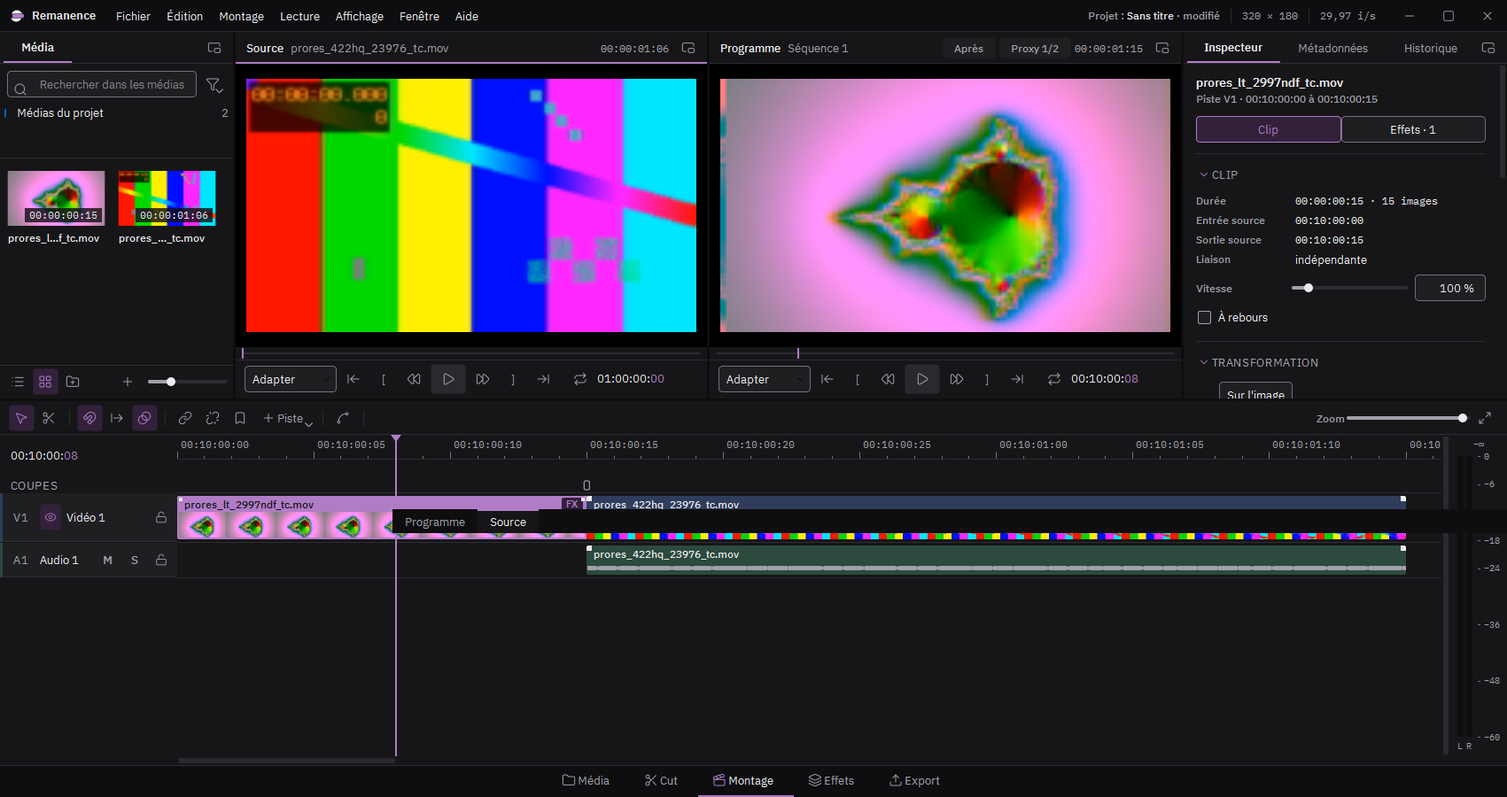
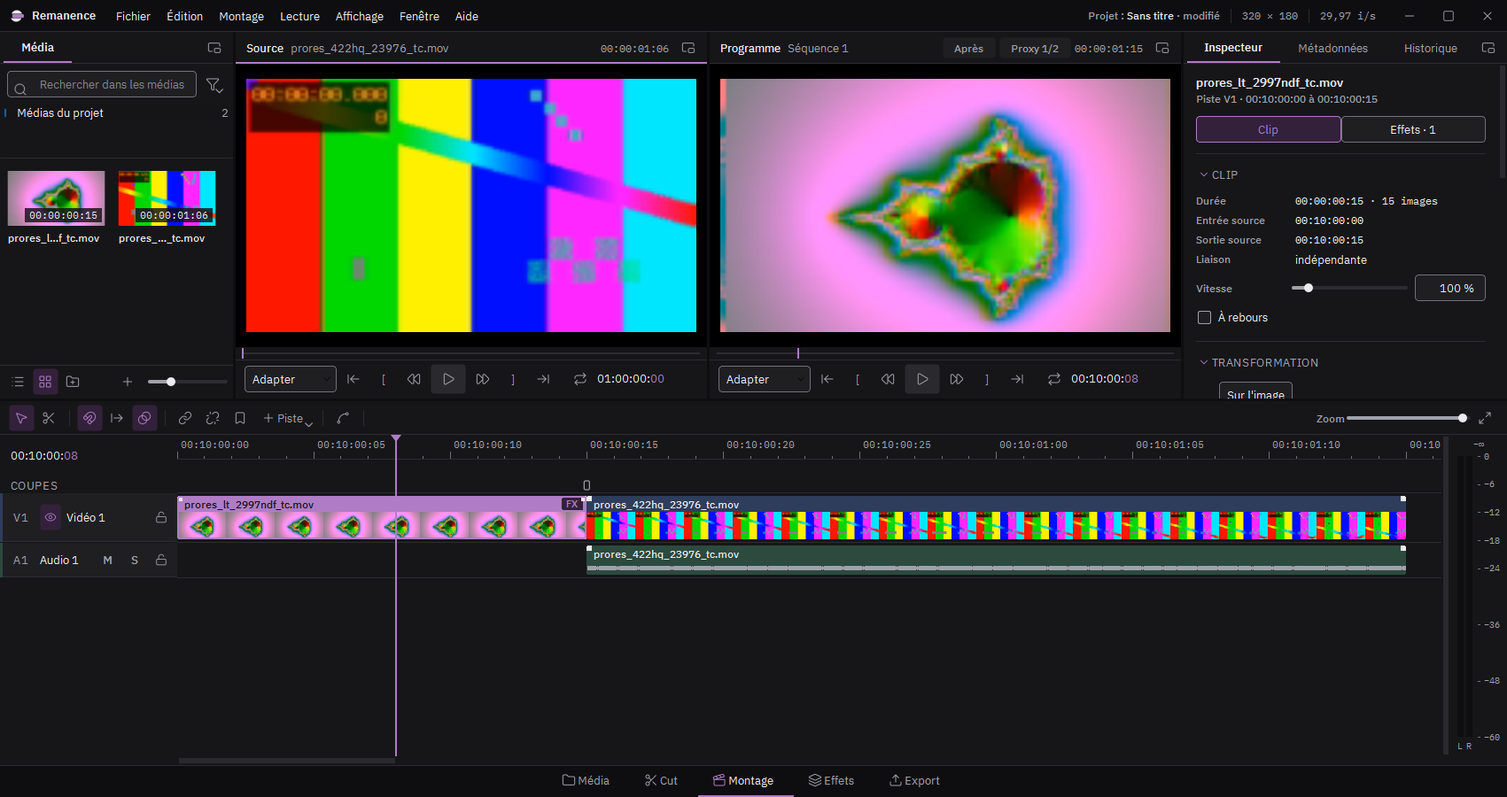
Retour progressif au net à la fin d'une transition datamosh
Réglage Fondu de la transition : la bavure s'efface peu à peu sur ses
dernières images. Hachures qui s'éclaircissent sur la timeline.
Test de version qui attendait 1.0.0 corrigé.

Changed region(s): [[0.2493, 0.6222, 0.9347, 0.6844]]

diff --git a/remanence/ressources/guide/index.html b/remanence/ressources/guide/index.html
@@ -206,7 +206,7 @@ td { padding: 6px 16px 6px 0; border-bottom: 1px solid var(--ligne); vertical-al
 <li>Dans la bande <strong>Coupes</strong>, au-dessus des pistes, cliquez le petit rectangle juste au-dessus du raccord. Il devient mauve.</li>
 <li>Attendez que « Calcul… » disparaisse du clip, puis lisez le passage.</li>
 </ol>
-<p>La zone hachurée au début du second clip montre la durée de la bavure. Tirez son bord droit pour l'allonger. Dans l'inspecteur, la section Transition datamosh règle aussi la taille des blocs.</p>
+<p>La zone hachurée au début du second clip montre la durée de la bavure. Tirez son bord droit pour l'allonger. Dans l'inspecteur, la section Transition datamosh règle aussi la taille des blocs et le <strong>Fondu</strong>, en images : sur la fin de la transition, la bavure s'efface peu à peu au lieu de laisser place à l'image nette d'un coup (0 : retour au net d'un coup). Sur la timeline, les hachures s'éclaircissent sur cette partie.</p>
 <p>Les autres rectangles de la bande Coupes marquent les changements de plan à l'intérieur d'une vidéo. Un clic fait baver le plan d'avant dans le suivant, au même endroit.</p></section>
 <section><h2 id="aide-06-codec">Effets codec et scripts FFglitch</h2>
 <figure><img alt="Script FFglitch dans l'inspecteur" src="../aide/codec.png"></figure>

diff --git a/remanence/moteurs/codec/prerendu.py b/remanence/moteurs/codec/prerendu.py
@@ -133,7 +133,9 @@ def cle_source(projet: Projet, seq: Sequence, clip: Clip) -> str | None:
     donnees = {"source": _signature(projet, clip), "cadence": seq.cadence,
                "cles": clip.cles_supprimees, "ffglitch": ffglitch.disponible(),
                "transition": None if a is None else [clip.transition.duree, clip.transition.blocs,
-                                                     _signature(projet, a)]}
+                                                     _signature(projet, a)]
+               # Le fondu n'entre dans l'empreinte que s'il existe : les caches d'avant valent.
+               + ([_fondu(clip)] if _fondu(clip) else [])}
     return _empreinte(donnees)
 
 
@@ -232,9 +234,40 @@ def _calculer_source(projet: Projet, seq: Sequence, clip: Clip, progression=None
     decodees = bavure.decoder(paquets, total)
     for _ in range(queue):
         next(decodees)
+    if a is not None and _fondu(clip):
+        decodees = _retour_progressif(decodees, projet, clip, largeur, hauteur)
     _ecrire(final, decodees, clip.duree, largeur, hauteur, cadence, v.couleur, progression,
             annule, 0.5)
     return final
+
+
+def _fondu(clip: Clip) -> int:
+    """Images du retour progressif au net, bornées à la durée de la transition."""
+    t = clip.transition
+    return max(0, min(t.fondu, t.duree)) if t is not None else 0
+
+
+def _retour_progressif(moshees, projet: Projet, clip: Clip, largeur: int, hauteur: int):
+    """Fin de la transition datamosh : sur ses `fondu` dernières images, l'image qui bave se
+    mêle à l'image du clip, de plus en plus nette, comme un fondu enchaîné ((k + 1) / (n + 1)).
+    La transition garde sa durée ; l'image clé qui la termine reste à sa place."""
+    duree, n = clip.transition.duree, _fondu(clip)
+    debut = duree - n
+    nettes = _images(projet, clip, debut, n)
+
+    def plans(image):
+        return image.reformat(width=largeur, height=hauteur,
+                              format="yuv420p").to_ndarray().astype(np.float32)
+    try:
+        for t, image in enumerate(moshees):
+            if debut <= t < duree:
+                poids = (t - debut + 1) / (n + 1)
+                bave, nette = plans(image), plans(next(nettes))
+                melange = np.rint(bave + (nette - bave) * poids).astype(np.uint8)
+                image = av.VideoFrame.from_ndarray(melange, format="yuv420p")
+            yield image
+    finally:
+        nettes.close()
 
 
 def _ecrire(final: Path, images, n: int, largeur: int, hauteur: int, cadence: Fraction,

diff --git a/tests/test_effets.py b/tests/test_effets.py
@@ -417,6 +417,40 @@ def test_transition_datamosh(medias, tmp_path, moteur):
     assert infos.video.tc_debut == seq.tc_debut + b.debut, "même timecode que dans le montage"
 
 
+def test_retour_progressif_du_datamosh(medias, moteur):
+    """Fondu à la fin de la transition (demande de Lewis, 21 novembre 2026) : sur ses
+    dernières images, la bavure se mêle peu à peu à l'image nette, au lieu d'y revenir d'un
+    coup ; avant, la même bavure ; après, la source intacte."""
+    from remanence.moteurs.codec import prerendu
+    projet, seq, a, b = _deux_plans(medias)
+    propre = [_image(projet, b.debut + t) for t in range(14)]
+    edition.basculer_transition(seq, b.id, 12)
+    assert b.transition.fondu == 6, "fondu par défaut d'une nouvelle transition"
+
+    def images(fondu):
+        b.transition.fondu = fondu
+        prerendu.calculer_source(projet, seq, b)
+        return [_image(projet, b.debut + t) for t in range(14)]
+    franc, doux = images(0), images(6)
+    ecart = lambda x, y: float(np.abs(x[..., :3] - y[..., :3]).mean())
+    assert all(np.array_equal(doux[t], franc[t]) for t in range(6)), \
+        "avant le fondu, la même bavure"
+    restes = [ecart(doux[t], propre[t]) for t in range(6, 12)]
+    francs = [ecart(franc[t], propre[t]) for t in range(6, 12)]
+    assert all(r < f for r, f in zip(restes, francs)), "le fondu rapproche de l'image nette"
+    assert restes[-1] < restes[0] and restes[-1] < 0.35 * francs[-1], "de plus en plus net"
+    assert all(np.array_equal(doux[t], propre[t]) for t in range(12, 14)), \
+        "après la transition, la source intacte"
+    # Les projets d'avant (sans fondu) gardent leur retour au net d'un coup.
+    donnees = projet.vers_dict()
+    for s in donnees["sequences"]:
+        for p in s["pistes"]:
+            for c in p["clips"]:
+                if c.get("transition"):
+                    c["transition"].pop("fondu")
+    assert Projet.depuis_dict(donnees).sequence.trouver(b.id)[1].transition.fondu == 0
+
+
 def test_transition_et_coupes_au_montage(medias):
     projet, seq, a, b = _deux_plans(medias)
     with pytest.raises(edition.EditionImpossible):

diff --git a/remanence/ui/timeline.py b/remanence/ui/timeline.py
@@ -367,10 +367,21 @@ class VueTimeline(QWidget):
         self._dessiner_cles(p, clip, r)
         if clip.transition is not None and edition.precedent(piste, clip) is not None:
             largeur = min(clip.transition.duree, clip.duree) * self.px_par_image
+            fondu = min(clip.transition.fondu, clip.transition.duree, clip.duree)
+            plein = largeur - fondu * self.px_par_image
             zone = QRectF(r.left(), r.top() + BANDEAU, largeur, r.height() - BANDEAU)
             # Vignettes assombries sous les hachures : sinon elles s'y perdaient.
-            p.fillRect(zone, c.c("bg-app", 0.6))
-            p.fillRect(zone, QBrush(c.c("accent"), Qt.BDiagPattern))
+            pleine = QRectF(zone.left(), zone.top(), plein, zone.height())
+            p.fillRect(pleine, c.c("bg-app", 0.6))
+            p.fillRect(pleine, QBrush(c.c("accent"), Qt.BDiagPattern))
+            # Retour progressif au net : les hachures s'effacent par paliers.
+            paliers = max(1, min(8, round((largeur - plein) / 4)))
+            pas = (largeur - plein) / paliers
+            for k in range(paliers):
+                force = 1 - (k + 1) / (paliers + 1)
+                bande = QRectF(zone.left() + plein + k * pas, zone.top(), pas, zone.height())
+                p.fillRect(bande, c.c("bg-app", 0.6 * force))
+                p.fillRect(bande, QBrush(c.c("accent", force), Qt.BDiagPattern))
             p.fillRect(QRectF(zone.right() - 2, zone.top(), 2, zone.height()), c.c("accent"))
         # Bandeau du nom, sur la couleur du clip : lisible même par-dessus les vignettes. Clip
         # choisi : bandeau mauve plein, visible de loin (le contour seul se perdait).

diff --git a/remanence/ui/inspecteur.py b/remanence/ui/inspecteur.py
@@ -517,10 +517,12 @@ class Inspecteur(PanneauFiche):
             retirer = bouton_icone("x", "Retirer la transition", taille=14)
             retirer.clicked.connect(lambda: self.reglage.emit(c.id, "transition_retirer", None))
             section.ajouter_outil(retirer)
-            for champ, nom, mini, maxi, unite in (("duree", "Durée", 1, c.duree, "images"),
-                                                  ("blocs", "Blocs", 1, 31, "")):
+            for champ, nom, mini, maxi, unite, defaut in (
+                    ("duree", "Durée", 1, c.duree, "images", 24),
+                    ("fondu", "Fondu", 0, c.transition.duree, "images", 8),
+                    ("blocs", "Blocs", 1, 31, "", 4)):
                 ligne = LigneParametre(nom, mini, maxi, getattr(c.transition, champ), unite,
-                                       24 if champ == "duree" else 4, 0)
+                                       defaut, 0)
                 ligne.valeur_finale.connect(lambda v, champ=champ: self.reglage.emit(
                     c.id, "transition_" + champ, v))
                 self._cible.addWidget(ligne)

diff --git a/remanence/projet/edition.py b/remanence/projet/edition.py
@@ -807,6 +807,9 @@ def precedent(piste: Piste, clip: Clip) -> Clip | None:
                  and o.est_media), None)
 
 
+FONDU_DATAMOSH = 8  # images du retour progressif au net d'une nouvelle transition
+
+
 def basculer_transition(seq: Sequence, clip_id: str, duree: int | None = None):
     """Pose ou retire la transition datamosh à l'entrée du clip."""
     piste, c = seq.trouver(clip_id)
@@ -819,7 +822,9 @@ def basculer_transition(seq: Sequence, clip_id: str, duree: int | None = None):
         return
     if precedent(piste, c) is None:
         raise EditionImpossible("Une transition datamosh se pose entre deux clips qui se suivent.")
-    c.transition = Transition("datamosh", max(1, min(duree or 24, c.duree)))
+    d = max(1, min(duree or 24, c.duree))
+    # Retour au net progressif par défaut (demande de Lewis, 21 novembre 2026).
+    c.transition = Transition("datamosh", d, fondu=min(FONDU_DATAMOSH, d // 2))
 
 
 def basculer_cle(seq: Sequence, clip_id: str, t: int):

diff --git a/tests/test_licences.py b/tests/test_licences.py
@@ -52,11 +52,13 @@ def test_version_et_notes():
     from remanence.ui.apropos import APropos
     QApplication.instance() or QApplication([])
     from remanence.ui.charte import RACINE
-    assert [int(x) for x in __version__.split(".")] == [1, 0, 0]
+    nombres = [int(x) for x in __version__.split(".")]
+    assert len(nombres) == 3 and nombres >= [1, 0, 0]
     notes = (RACINE / "NOTES_DE_VERSION.md").read_text(encoding="utf-8")
     assert f"## Remanence {__version__}" in notes and "—" not in notes
     fenetre = APropos()
-    assert [fenetre.onglets.tabText(i) for i in range(fenetre.onglets.count())] ==         ["Notes de version", "Licences"]
+    assert [fenetre.onglets.tabText(i) for i in range(fenetre.onglets.count())] == \
+        ["Notes de version", "Licences"]
     assert "Limites connues" in fenetre.onglets.widget(0).toPlainText()
 
 

diff --git a/remanence/projet/modele.py b/remanence/projet/modele.py
@@ -133,10 +133,13 @@ MODES_FUSION = {"normal": "Normal", "addition": "Addition", "ecran": "Écran",
 class Transition:
     """Transition à l'entrée d'un clip, depuis le clip qui le précède sur sa piste. Datamosh :
     l'image clé du raccord est supprimée, le clip précédent bave avec le mouvement de celui-ci
-    pendant `duree` images, puis une image clé le rend net."""
+    pendant `duree` images, puis une image clé le rend net. `fondu` : sur ses dernières images,
+    l'image qui bave se mêle peu à peu à l'image nette (0 : retour au net d'un coup, comme
+    dans les projets d'avant)."""
     type: str = "datamosh"
     duree: int = 24
     blocs: int = 4
+    fondu: int = 0
 
 
 # Un clip d'effet n'a pas de média : il transforme tout ce qui est sous lui. Son entrée est

diff --git a/CLAUDE.md b/CLAUDE.md
@@ -42,6 +42,7 @@ Logiciel Windows de montage vidéo orienté datamosh et glitch art, dans l'espri
 - Étape 11 (espace Cut, montage rapide) : plan en quatre lots accepté par Lewis le 5 novembre 2026 avec les choix par défaut (1 espace Cut entre Média et Montage, raccourcis renumérotés Maj+1 à Maj+5 dans l'ordre de la barre, pas d'inspecteur ; 2 bande source (tous les médias du chutier enchaînés dans le moniteur) et quatre poses : insertion intelligente au raccord le plus proche, ajouter à la fin, remplacer le plan sous la tête (la suite se décale), placer au-dessus ; 3 double timeline : bande de toute la séquence au-dessus, timeline détaillée autour de la tête, repère du raccord visé ; 4 découper un média aux changements de plan (`Media.coupes`), revue rapide (plus vite sur les longs plans), rognage du raccord visé au clavier ; validation : dix plans montés sans quitter Cut, timelines synchronisées, insertion intelligente toujours sur un raccord). Lot 1 fait le 5 novembre 2026, 228 tests au vert : `PANNEAUX_ESPACE["cut"]` = médias, programme (`visionneuse`), timeline ; `_disposition` (médias 420 px, programme le reste ; second écran : programme seul) ; moniteur ajusté en 16:9 comme Montage et Effets ; `barres.ESPACES` (icône `scissors`) ; Maj+1 à 5 avec Maj+&, é, ", ', ( (AZERTY) ; aide et guide (chapitre L'écran, capture `espace-cut.png`) mis à jour. Lot 2 fait le 5 novembre 2026, 230 tests au vert : moniteur unique = docks source et programme en onglets (`tabifyDockWidget` ; `activer_moniteur` lève l'onglet dans Cut, Q bascule) ; rangée `_barre_poses` sous le moniteur source (`Moniteur.ajouter_ligne`), visible dans Cut seulement : « Bande source » (`basculer_bande` : mini-projet aux réglages de la séquence où les vidéos de `PanneauMedias.medias_affiches()` se suivent ; `_bande` = [(média, début, longueur)] ; le média sous la tête devient `media_source` (`_position_source`), points d'entrée et de sortie gardés par média, en images du média (`_debut_dans_bande`), `_duree` et `_points` de la source en images de la bande ; charger un média y amène la tête ; quitter Cut arrête la bande) et quatre poses (`Fenetre.poser_cut`, `POSES`, aussi au menu Montage) avec la partie choisie de la source (le plan entier sans points) : Insérer = insertion intelligente au raccord le plus proche (`edition.raccord_proche`, Maj+F9), À la fin (Maj+F12), Remplacer le plan sous la tête de V1 (`edition.remplacer_plan` : le plan et ses liés retirés, la suite de toutes les pistes, marqueurs compris, avance ou recule de la différence, `_refermer` ; Maj+F10), Au-dessus (`edition.placer_au_dessus` : première piste vidéo libre au-dessus de V1, sinon une nouvelle en haut, son sur une piste audio libre, rien d'écrasé ; F12) ; raccourcis de Resolve. `ajouter_media(..., piste_audio=)`. Feuille de style : `QPushButton:checked` (fond `accent-soft`, texte et bord `accent`) : les boutons enclenchés ordinaires ne se voyaient pas (Bande source, Sur l'image). Capture : `UI/captures/cut_lot2.png`. Lot 3 fait le 5 novembre 2026, 231 tests au vert : `Timeline.mode_cut(actif)` (appelé par `_appliquer_espace`) : `VueEnsemble` (timeline.py, 56 px, au-dessus des pistes et alignée sur elles) : une rangée fine par piste non vide (couleurs des clips, clips choisis en `accent`), la partie montrée par la timeline détaillée en `surface-hover`, le raccord visé en pointillés `accent-2`, la tête en `playhead` ; clic et glisser amènent la tête (`fenetre.aller_a`) ; repeinte avec la timeline détaillée (fin de `VueTimeline.paintEvent`) et à chaque défilement. Timeline détaillée : `centrer_tete` (la tête reste au centre, la timeline défile sous elle), `VueTimeline.montrer_raccord` (pointillés `accent-2` sur le raccord de `edition.raccord_proche`, celui que vise Insérer). Hors de Cut, tout revient comme avant. Capture : `UI/captures/cut_lot3.png`. Lot 4 fait le 5 novembre 2026, 234 tests au vert, Remanence.exe et installateur reconstruits (diagnostic entièrement ok) : Découper aux changements de plan (Montage et menu du clip, Ctrl+K ; `edition.decouper_aux_plans` avec `prerendu.coupes_du_clip`, de la dernière coupe à la première, son compris ; refusé tant que l'analyse des coupes du média n'est pas finie) ; dans la bande source sans points, une pose prend le plan sous la tête entre deux changements de plan (`edition.plan_autour`) ; Revue rapide (bouton de la rangée Cut, `revue_rapide` : le moniteur actif lit à `REVUE_SECONDES` = 2,5 s par plan, de ×1 à ×8 par demi-pas, minuterie de 80 ms qui ajuste la vitesse à chaque plan (`_plan_lu` : plan de la bande, ou entre deux raccords au programme) et relâche le bouton quand la lecture s'arrête ; à la fin de la séquence, la lecture s'arrête aussitôt) ; rognage du raccord visé (Alt+gauche et droite, Alt+Maj : dix images ; `edition.raccord_a_rogner` : le clip de V1 qui finit au raccord le plus proche, avec un voisin collé, puis `edition.rouler` ; la tête suit le raccord). Fiche d'aide `10-cut.md` (capture `cut.png` par `captures_aide.py`), guide refait (16 chapitres), notes de version. Test de validation : `test_validation_etape_11` (dix poses par les raccourcis sans quitter Cut, dix plans entiers et jointifs, tête commune aux deux timelines). Validée par Lewis le 5 novembre 2026.
 - Étape 12 (effets audio glitch) : plan en quatre lots accepté par Lewis le 5 novembre 2026 avec les choix par défaut (1 moteur : effets sur les clips et pistes audio, lecture et export, images clés, courbes, modulateurs, calcul qui ne dépend que de la position (même son par blocs et d'un export à l'autre) ; 2 six effets : Bégaiement, Bitcrusher, Arrêt de bande, Inversion par fragments, Gel, Databending audio ; 3 « le son bave avec l'image » (case de la transition datamosh : le son se gèle et se répète pendant la transition et aux images clés supprimées), famille Son dans la bibliothèque avec préréglages ; 4 validation : effet à zéro = son recopié au bit près, deux exports identiques, lecture fluide avec trois effets ; effets audio sur le son seulement, effets vidéo sur l'image seulement ; ni écho ni réverbération). Lot 1 fait le 5 novembre 2026, 239 tests au vert : `DescriptionEffet.moteur = "audio"` et `son(lire, valeurs, graine, fréquence)` qui rend un lecteur ; `rendu/son.py` : lecteur = `lire(début, n)` -> (n, 2) float32 en positions du porteur (clip, ou séquence pour un effet de piste), `borne` (muet hors du clip), `chaine` (effets actifs de chaque image, `composition.actifs`, le bloc coupé aux limites des images : l'image de l'échantillon p est floor(p / par_image), chacune avec ses réglages, d'où un résultat indépendant de la taille des blocs), opacité = mélange avec le son reçu. `Compositeur.audio` : `_lecteur_clip` (source bornée, effets audio du clip, puis niveau, fondus, enveloppe) ; une piste qui a des effets audio les applique au mélange de ses clips (`bus`). Export : pas de recopie du son si le clip ou sa piste a des effets. `FAMILLES_SON` = ["Son"] ; `remplir_menu_effets(..., son=)` : effets audio pour les clips et pistes audio, vidéo sinon (préréglages personnels filtrés de même) ; `Fenetre.ajouter_effet` refuse un effet sur le mauvais genre (« Effet audio sur le son, effet vidéo sur l'image ») ; inspecteur : effets des clips et pistes audio, « Mélange » au lieu d'Opacité, ni fusion ni masques ; menu des en-têtes de pistes audio. Premier effet : Bitcrusher (`effets/bitcrusher.py` : bits 1 à 16, réduction 1 à 64 ×, échantillon tenu aligné sur les positions absolues ; famille Son, sans préréglage jusqu'au lot 3). Tests génériques des effets vidéo : sans les effets audio. `tests/test_son.py`. Lot 2 fait le 5 novembre 2026, 246 tests au vert : outils de `rendu/son.py` (`hasard(graine, clés…)` par `numpy.random.default_rng`, `lire_positions` : positions entières ou non, interpolation linéaire, lues en une fois ; `echantillons(ms)`) ; effets (fenêtres comptées depuis le début du porteur, tirées par fenêtre : même son quel que soit le découpage) : Bégaiement (`begaiement.py` : fenêtres de fragment × répétitions, le premier fragment rejoué ; fragment, répétitions, probabilité), Inversion par fragments (`inversion_fragments.py`), Gel (`gel.py` : à la fin de chaque période tirée, le grain qui précède rejoué en boucle pendant la durée, fondu d'un huitième de grain sur ses bords), Arrêt de bande (`arret_bande.py` : vitesse (1 − u)^courbe, position = intégrale, la hauteur descend, extinction au dernier vingtième ; repart net à la période suivante), Databending audio (`databending_audio.py` : tranches d'une seconde depuis le début du porteur, encodées en MP2 par PyAV (s16, trames de 1152, débits permis de 32 à 192 kb/s), octets des paquets abîmés hors des 4 octets d'en-tête (graine, tranche), décodés (trame illisible : silence), retard du codec de 481 échantillons retiré ; cache LRU de 64 tranches, clé = SHA-1 du son reçu + réglages : la lecture redemande souvent la même tranche). Les 5 effets : 3 s calculées en 11 à 54 ms. Écoute : `build/demo_son` (un WAV par effet sur un motif rythmé, non suivi par git). Lot 3 fait le 5 novembre 2026, 248 tests au vert : « Le son bave » (`Clip.son_bave`, clé facultative, sur le clip vidéo ; case dans la section Transition datamosh, ou dans une section « Datamosh » s'il n'a que des images clés supprimées, pour un clip lié à du son) : `Compositeur._plages_bave` (les `prerendu.plages_modifiees` des clips vidéo liés aux clips de la piste, en échantillons de la séquence) puis `son.bave` sur le mélange de la piste, avant ses effets : pendant chaque plage (deux secondes au plus), le grain de 60 ms qui la précède (le plan d'avant) tourne en boucle (fondu d'un huitième de grain) et s'efface pendant que le son de la plage monte ; export : pas de recopie du son lié à un clip qui bave. Trois préréglages par effet audio (Disque rayé, Sampler nerveux, Hoquet ; Console 8 bits, Téléphone cassé, Poussière ; Cassette freinée, Platine débranchée, Ralenti nerveux ; Envers aléatoire, Bribes à rebours, Message caché ; Note tenue, Glace fine, Bourdon ; Radio abîmée, Fichier corrompu, Crépitements). Bibliothèque : filtre « Son » (`FAMILLES_SON`), vignette d'un préréglage audio = forme d'onde de `son.son_demo()` passé par ses effets, en `ink` sur `clip-audio` comme un clip audio, tête de lecture `playhead` qui la parcourt au survol (`est_audio`, `_onde`, `_calculer_onde`) ; ni clip d'effet ni effet de séquence pour un préréglage audio. `Fenetre.appliquer_prereglage` et `_prereglage_depose` : un préréglage audio va aux clips audio choisis, et au son lié (`_son_lie`) d'un clip vidéo choisi ou visé ; lâché dans le vide : refusé. Guide : catalogue avec la famille Son (moteur « Son »), vignettes refaites. Lot 4 fait le 5 novembre 2026, 256 tests au vert, Remanence.exe et installateur reconstruits (diagnostic : 35 effets, 11 fiches) : `DescriptionEffet.neutre(valeurs)` (Bitcrusher : 16 bits et réduction 1 ; Bégaiement : probabilité 0 ou une répétition ; Inversion, Gel, Arrêt de bande : probabilité 0 ; le Databending repasse toujours par le codec, neutre seulement à mélange nul), sauté dans `son.chaine` ; `son.intact(effet, seq)` (coupé, mélange nul ou neutre, sans image clé ni modulateur) : l'export recopie le son d'origine si tous les effets audio du clip et de sa piste sont intacts (test : paquets audio identiques à la source, pour les six effets). Le rapport d'export écrit « recopié sans réencodage » (le test du lot 1 comparait à « copie » et ne vérifiait rien : corrigé). Les six effets empilés exportés deux fois : même son. Lecture : trois effets (Bégaiement, Gel, Databending) par blocs de 1024 échantillons coûtaient 124 % du temps réel : le Databending, par tranches d'une seconde, refaisait calculer une seconde des effets d'avant à chaque bloc ; tranches de deux trames MP2 (48 ms) avec une trame d'avance (encodée, non abîmée, retirée : le codec enchaîne sans claquer, écart aux jointures 0,01), cache de 512 tranches : 23 %. Tuiles des préréglages audio : « Effet · son » (`Prereglage.description`). Fiche `11-son.md` « Casser le son » (capture `son.png`, filtre Son de la bibliothèque), notes de version, guide (17 chapitres). Validée par Lewis le 5 novembre 2026 : les étapes 7 à 12 de la suite sont faites.
 - Étape 13 (retours des testeurs de Lewis, 15 novembre 2026 : un monteur est reparti vers Live Mosher, interface de FFglitch de pawelzwronek, faute d'y retrouver ses scripts ; bugs de timeline et de moniteur ; molette ; ergonomie) : plan en cinq lots accepté par Lewis le 15 novembre 2026 (1 scripts de Live Mosher : exemples téléchargés pour les essais seulement, chacun des ~80 scripts vérifié une fois importé, import en un clic, noms et rangement d'origine ; licence des scripts de Daz Disley (dd_GlitchAssist) et de Live Mosher non déclarée : pas livrés sans l'accord de l'auteur ; 2 aperçu en direct par fflive (bouton « Direct », fenêtre en boucle sur le programme, relancée quand un réglage change) ; 3 équivalents réécrits et livrés (Gravity, Slam zoom, Mirror, Swap, RandomDamage…) ; 4 bugs : molette qui change les réglages, timeline qui ne se réduit plus ou disparaît, image dans l'image du moniteur ; 5 inspecteur en onglets Clip et Effets, piste FX des clips d'effet, moniteur seul en plein écran sur l'écran 2). Lot 1 fait le 15 novembre 2026, 261 tests au vert : banc d'essai sur les 109 fichiers du dossier Examples de Live Mosher (dépôt pawelzwronek/LiveMosher, sans licence : téléchargé dans le dossier temporaire de Claude pour les essais, jamais dans le projet) ; avant correction, 79 scripts agissaient une fois importés (dont les 74 de Daz Disley), 12 échouaient sur un module voisin, `mv_average_0.10.js` choisissait son propre fichier de sortie, et un script zmq bloquait ffedit sans fin. `scripts.importer` rend un `BilanImport` (importés, dont en direct, écartés avec leur raison) : dossiers d'origine gardés sous `<données>/scripts_ffglitch/<nom du dossier importé>/…`, modules voisins recopiés dans le script (`regrouper` : `import {…} from "./x"` remplacé par le module sans ses `export`, `import * as n` rangé dans un objet `n`), écartés : sans `glitch_frame` (« module d'aide », ou « autre usage » pour les crochets d'autres outils de FFglitch : `filter` de fflive, `pict_type_func`, `mb_type_func` de ffgac), features hors MPEG-4 (`FEATURES_MPEG4` = info, mv, mv_delta, mb, gmc, relevées par `ffedit -i` : « pour les images »), module voisin introuvable. `direct_seulement` : import d'un module de fflive (rtmidi, zmq) ou événements SDL (clavier, manette) ; un tel script est sans action sur la timeline (`prerendu.en_direct`, exclu de `effets_codec` et de `composition.actifs`, `script_ffglitch.script` lève « Script à lire en direct »), avertissement dans l'inspecteur ; il servira au direct (lot 2). `adapter` : le fichier de sortie reste celui de Remanence même si le `setup` du script en choisit un. Bibliothèque : `scripts_de_la_bibliotheque()` (`Script` : nom, texte, fourni, groupe = dossier d'origine, direct ; deux scripts de même nom : le second suivi de son dossier entre parenthèses) ; tuiles « Script · instant damage », « · direct » (`Prereglage.groupe`, `direct`). Fichier > Importer les scripts de Live Mosher… : `scripts.trouver_live_mosher()` cherche un dossier dont le nom contient « LiveMosher » (deux niveaux sous Téléchargements, Bureau, Documents, le dossier personnel et les dossiers des programmes) et son « Examples » ; sinon le dossier est demandé. Après correction, sur les vrais fichiers : 91 importés, 82 agissent sur la timeline (les 74 de Daz Disley compris), 9 en direct, 16 écartés. `tests/test_scripts_import.py` (faux dossier qui reproduit chaque cas). Le message « FFglitch absent : effet sans action » a pris son espace insécable (test mis à jour). Lot 2 fait le 15 novembre 2026, 262 tests au vert : aperçu en direct (`moteurs/codec/direct.py`) par fflive de FFglitch 0.10.2 (`-s` script, `-loop 0`, `-noborder -alwaysontop`, `-left -top -x -y`, `-an`, titre « Remanence · Direct ») : `accepte` (effets dont `DescriptionEffet.script` existe : Script FFglitch, Vecteurs, Écho et Zoom de mouvement, saccades ; pas le transfert), `script` (Script FFglitch par `scripts.adapter` sans le refus des scripts directs ; sinon le script généré avec les valeurs de chaque image), `flux` (le clip en MPEG-4 par ffgac, images clés aux coupes, mis en cache `direct_<empreinte>.avi` dans le dossier des pré-rendus : source, entrée, durée, vitesse, cadence, blocs), `Direct` (un processus à la fois, `lancer`, `actif`, `erreur`, `arreter`). Interface : bouton « Direct » (cochable) des effets à script d'un clip dans l'inspecteur, si FFglitch est là (`Inspecteur.direct_demande`, `effet_direct`) ; `Fenetre.basculer_direct` prépare fichier et script en tâche de fond sur une copie du projet, puis pose la fenêtre sur l'image du programme (`_rect_direct` : image de la séquence ajustée dans `visionneuse.zone`, en pixels physiques) ; relancé 350 ms après chaque action validée (`valider`) ou changement d'espace (`_relance_direct`) ; `_surveiller_direct` (500 ms) relâche le bouton quand fflive s'arrête (Échap, erreur du script notée au journal) ; arrêté si l'effet ou le clip disparaît, et à la fermeture. L'effet est montré seul sur la source du clip. Essai réel : Vecteurs et dd_gravity, fenêtre à la position demandée ; écrans de Lewis à 100 %. Capture `UI/captures/direct_lot2.png` (dd_RandomDamage(wave) sur la vidéo UHD). Lot 3 fait le 15 novembre 2026, 270 tests au vert : quatre effets FFglitch réécrits (idées des scripts de Daz Disley, aucun code repris), famille Datamosh, avec « Fréquence » (sous 100 % : images tirées au hasard par `hasard()`, comme RandomDamage) : Gravité (`gravite.py` : poussée constante, direction en degrés, 0 = vers le bas, force en px), Échange des axes (`echange_axes.py`), Sens unique (`sens_unique.py` : ne garde que le mouvement vers les directions cochées), Tourbillon (`tourbillon.py` : champ tournant autour d'un centre, même échelle que le Zoom de mouvement). Un vecteur dit où chercher le bloc dans l'image d'avant : le sens à l'écran est l'opposé de son signe. `DescriptionEffet.equivalents` (préréglage -> nom du script d'autres logiciels), `Prereglage.equivalent` : cherché par la recherche de la bibliothèque, écrit dans l'info-bulle de la tuile (« Gravité · Datamosh · dd_gravity »). Préréglages ajoutés : Vecteurs (Miroir horizontal, Miroir vertical, Double vitesse), Zoom de mouvement (Coup de zoom) ; équivalents posés aussi sur Vecteurs, Zoom, Écho et les saccades. Guide refait (39 effets, vignettes). Test : `test_equivalents_live_mosher`. Lot 4 fait le 15 novembre 2026, 273 tests au vert : molette (`ui/molette.py`, filtre de l'application installé par la fenêtre) : champs numériques, curseurs et listes déroulantes (pas les barres de défilement) passent en StrongFocus à leur mise en forme (Qt donnait le clavier au widget survolé avant tout filtre) et ne prennent la molette qu'avec le clavier ; sinon elle remonte aux parents jusqu'à celui qui l'accepte (Qt ne propage pas un événement renvoyé) ; timeline hors de l'écran : au retour de l'espace Export, `restoreState` posait la disposition mémorisée alors que les panneaux d'Export étaient encore visibles, la fenêtre agrandie passait à 1 096 px sur un écran de 1 032 et le restait (bas de la timeline et barre des espaces hors de vue, timeline impossible à régler) ; `_appliquer_espace` cache d'abord les panneaux étrangers à l'espace, `_verifier_hauteur` remet aussi à la taille de l'écran une fenêtre agrandie plus haute que lui, et une timeline cachée par une disposition mémorisée revient (elle n'a pas de barre de titre) ; image du moniteur : Qt refait le contexte OpenGL d'une `ZoneImage` qui change de fenêtre (panneau détaché, second écran) et elle gardait les textures de l'ancien (moniteur noir, ou ancienne image) : `initializeGL` repart de textures neuves et renvoie image et LUT. `lire_apercu` en double dans `gpu.py` retiré. Les tests d'interface tournent sans écran (`QT_QPA_PLATFORM=offscreen`, pas d'OpenGL, écran de 800 px de haut) ; le moniteur détaché vérifié à la main sur l'écran réel. Tests : `test_molette_fait_defiler_sans_changer_les_reglages`, `test_timeline_reste_a_l_ecran`, `test_moniteur_change_de_fenetre`. Lot 5 fait le 15 novembre 2026, 277 tests au vert : inspecteur d'un clip en onglets Clip et Effets (`Inspecteur.onglet`, `choisir_onglet`, `_onglets` : deux boutons cochables sous le titre, « Effets · n » ; chaque onglet ne construit que son contenu, `_effets_du_clip` ; l'onglet est gardé d'un clip à l'autre ; `Fenetre.ajouter_effet` (clip), `appliquer_prereglage`, `ajouter_clip_effet` et le dépôt d'un clip d'effet passent à Effets, l'espace Effets aussi, l'espace Montage revient à Clip) ; piste FX (`Piste.fx`, clé enregistrée, absente des anciens projets : False) : `edition.piste_fx` (celle demandée si c'en est une, sinon la plus haute qui a la place, sinon une nouvelle « FX », « FX 2 »… insérée tout en haut), `ajouter_clip_effet` y pose toujours le clip d'effet (même lâché dans le vide d'une piste ordinaire) ; `ajouter_titre` va sur la plus haute piste qui n'est pas FX ; `ajouter_piste` sans voisine pose une piste vidéo sous les pistes FX (nommée sans les compter) ; `_piste_type` et `placer_au_dessus` ignorent les pistes FX ; `ajouter_media` refuse une piste FX (« Piste FX : clips d'effet seulement. ») ; `deplacer` laisse sur sa piste un clip qui n'est pas un clip d'effet glissé vers une piste FX ; glisser au-dessus des pistes : la nouvelle piste est sous les FX (`delta_piste` calculé sur elle) ; `nom_court_piste` : FX, FX2… (V1, V2 sans compter les FX), en-tête « badge-accent ». Double écran « Moniteur sur le second écran » (`_mode_double = "moniteur"`, retrouvé au lancement) : `_ouvrir_programme_externe(persistant=True)` (l'image du programme en plein écran sur l'autre écran, le programme reste aussi dans la fenêtre ; Échap ne la ferme pas ; le clavier rendu à la fenêtre principale ; fermée par Alt+F4 : retour à un seul écran ; Ctrl+F sans effet dans ce mode). Cette fenêtre a maintenant la fenêtre principale pour parent et `deleteLater` à la fermeture : sans parent, le ramasse-miettes de Python la détruisait pendant que Qt s'en servait (plantage 0xc0000374 de la suite de tests). Onglets fantômes : après Cut (source et programme en onglets), Qt laissait la barre « Programme | Source » à l'écran par-dessus le bas du moniteur des autres espaces ; `_ranger_onglets` (après chaque changement d'espace) cache une barre dont les panneaux ne sont plus en onglets l'un avec l'autre (`tabifiedDockWidgets`). Lignes de code dont la continuation par barre oblique avait été écrasée en espaces (fenetre, composition, export, echanges, panneau_courbes, effets, tests) remises en forme. Pièges de cette session : l'outil Bash de Claude abîme les barres obliques inverses dans les textes passés par heredoc (`\\` suivi d'un retour à la ligne, `\\1` devenu un caractère de contrôle) : écrire ces fichiers avec l'outil d'édition ; les sondes hors tests doivent demander OpenGL 3.3 core comme `__main__` (sinon les moniteurs restent noirs) ; ne jamais appeler `ZoneImage.initializeGL` sans contexte courant (mémoire abîmée). Version 1.1.0 et `NOTES_DE_VERSION.md`. Étape 13 validée par Lewis le 15 novembre 2026 ; publiée le même jour avec son accord : commits poussés sur fluxcroises/remanence, version v1.1.0 avec `Remanence-1.1.0-installation.exe`, catalogue de Creative Orbit relancé à la main (workflow « Mettre à jour le catalogue », sinon toutes les 6 heures).
+- Retour progressif au net du datamosh (demande de Lewis, 21 novembre 2026, après la 1.1.0, pas encore publié) : `Transition.fondu` (images, 0 par défaut : les projets d'avant reviennent au net d'un coup ; une nouvelle transition reçoit `min(edition.FONDU_DATAMOSH = 8, durée // 2)`). `prerendu._retour_progressif` : sur les `fondu` dernières images de la transition, l'image décodée qui bave est mêlée en yuv420p à l'image nette du clip (convertie comme pour l'encodeur), poids (k + 1) / (n + 1) comme un fondu enchaîné ; la durée et l'image clé de fin ne bougent pas ; le fondu n'entre dans l'empreinte de la source modifiée que s'il est non nul (caches d'avant valables). Inspecteur : ligne « Fondu » (0 à la durée) entre Durée et Blocs. Timeline : les hachures s'éclaircissent par paliers sur la partie du fondu. Fiche `05-datamosh.md`. Test : `test_retour_progressif_du_datamosh` (deux moteurs : même bavure avant, de plus en plus net, source intacte après). `test_licences.test_version_et_notes` attendait la version 1.0.0 exacte et échouait depuis la 1.1.0 (suite non relancée après le changement de version) : il vérifie maintenant trois nombres. 279 tests au vert.
 
 ## Commandes
 

diff --git a/remanence/ressources/aide/05-datamosh.md b/remanence/ressources/aide/05-datamosh.md
@@ -8,6 +8,6 @@ C'est la **transition datamosh** : l'image du premier plan reste et se déforme
 2. Dans la bande **Coupes**, au-dessus des pistes, cliquez le petit rectangle juste au-dessus du raccord. Il devient mauve.
 3. Attendez que « Calcul… » disparaisse du clip, puis lisez le passage.
 
-La zone hachurée au début du second clip montre la durée de la bavure. Tirez son bord droit pour l'allonger. Dans l'inspecteur, la section Transition datamosh règle aussi la taille des blocs.
+La zone hachurée au début du second clip montre la durée de la bavure. Tirez son bord droit pour l'allonger. Dans l'inspecteur, la section Transition datamosh règle aussi la taille des blocs et le **Fondu**, en images : sur la fin de la transition, la bavure s'efface peu à peu au lieu de laisser place à l'image nette d'un coup (0 : retour au net d'un coup). Sur la timeline, les hachures s'éclaircissent sur cette partie.
 
 Les autres rectangles de la bande Coupes marquent les changements de plan à l'intérieur d'une vidéo. Un clic fait baver le plan d'avant dans le suivant, au même endroit.
